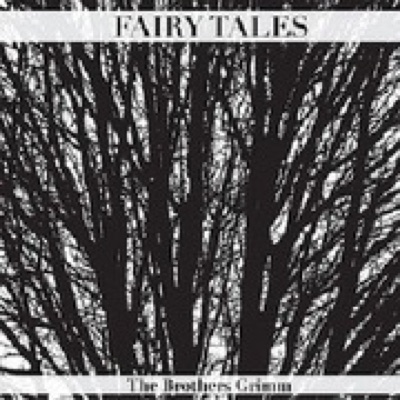
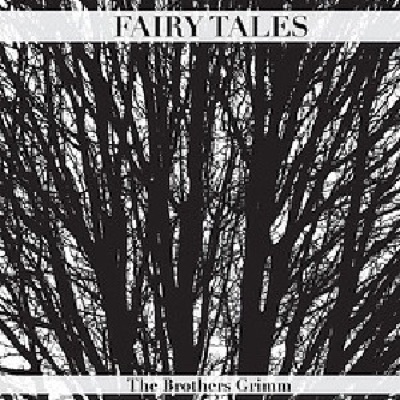
fix(demo): source covers from LibriVox's own artwork, record provenance
The bundled demo covers came from archive.org's `services/img/<id>`
endpoint, which returns a 180x180 derived thumbnail that the script then
upscaled to 400px — every cover shipped visibly soft.

Fetch the cover file LibriVox actually uploaded to the item instead
(e.g. `Moby_Dick_1002.jpg`), so 400px is a real downscale. All 18
catalogue items turn out to have one; `services/img` stays as a fallback.

Also settles the redistribution question that blocked going public.
Checked all 18 against the archive.org metadata API: every item is in the
`librivoxaudio` collection, uploaded by `info@librivox.org`, and 16 carry
an explicit public-domain `licenseurl` (CC PD / CC0 1.0 / PD Mark 1.0).
The two without one (`sonnet_23`, `declaration_of_independence`) predate
the metadata field rather than assert anything narrower. LibriVox's own
policy is explicit that cover art is included:

  "In addition, book summaries, CD cover art, and any other material that
   goes into our catalog with the audio recordings are in the public
   domain." — https://librivox.org/pages/public-domain/

The script now writes assets/demo/covers/CREDITS.md, a per-file table of
item, source filename and asserted rights, so the claim stays checkable
rather than remembered.

Changed region(s): [[0.0, 0.0, 1.0, 1.0]]

diff --git a/assets/demo/covers/CREDITS.md b/assets/demo/covers/CREDITS.md
@@ -1,0 +1,42 @@
+# Cover art — sources and rights
+
+Every image in this directory was published by LibriVox
+(uploader `info@librivox.org`) as part of the archive.org item for that
+recording, and is redistributed here under LibriVox's public-domain policy:
+
+> LibriVox records only texts that are in the public domain (in the USA), and
+> all our recordings are public domain. **In addition, book summaries, CD cover
+> art, and any other material that goes into our catalog with the audio
+> recordings are in the public domain.**
+>
+> — <https://librivox.org/pages/public-domain/>
+
+Images are downscaled to 400px and re-encoded; they are otherwise unmodified.
+They are bundled rather than hotlinked because archive.org's image service
+sends no `access-control-allow-origin` header, so CanvasKit's fetch of a
+hotlinked cover is blocked by CORS in the web demo.
+
+Regenerate this file with `scripts/fetch_demo_covers.sh`.
+
+| Cover | Item | Source file | archive.org rights |
+| --- | --- | --- | --- |
+| `gettysburg_address_librivox.jpg` | [The Gettysburg Address](https://archive.org/details/gettysburg_address_librivox) — Abraham Lincoln | `Gettysburg_Address_1108.jpg` | [CC Public Domain](http://creativecommons.org/licenses/publicdomain/) |
+| `sonnet_23_librivox.jpg` | [Sonnet 23 by William Shakespeare](https://archive.org/details/sonnet_23_librivox) — William Shakespeare | `Shakespeare_Sonnet_23_1108.jpg` | none asserted — LibriVox policy applies |
+| `pride_and_prejudice_librivox.jpg` | [Pride and Prejudice](https://archive.org/details/pride_and_prejudice_librivox) — Jane Austen | `Pride_Prejudice_1104.jpg` | [CC Public Domain](http://creativecommons.org/licenses/publicdomain/) |
+| `adventures_sherlockholmes_1007_librivox.jpg` | [The Adventures of Sherlock Holmes](https://archive.org/details/adventures_sherlockholmes_1007_librivox) — Sir Arthur Conan Doyle | `Adventures_of_Sherlock_Holmes_1008.jpg` | [CC Public Domain](http://creativecommons.org/licenses/publicdomain/) |
+| `frankenstein_cs_librivox.jpg` | [Frankenstein; or, The Modern Prometheus (1818)](https://archive.org/details/frankenstein_cs_librivox) — Mary Wollstonecraft Shelley | `Frankenstein_1111.jpg` | [CC0 1.0](http://creativecommons.org/publicdomain/zero/1.0/) |
+| `war_of_the_worlds_librivox.jpg` | [The War of the Worlds](https://archive.org/details/war_of_the_worlds_librivox) — H. G. Wells | `war_worlds_group_1109.jpg` | [CC Public Domain](http://creativecommons.org/licenses/publicdomain/) |
+| `dracula_librivox.jpg` | [Dracula](https://archive.org/details/dracula_librivox) — Bram Stoker | `Dracula_1104.jpg` | [CC Public Domain](http://creativecommons.org/licenses/publicdomain/) |
+| `call_of_the_wild.jpg` | [The Call of the Wild](https://archive.org/details/call_of_the_wild) — Jack London | `Call_of_the_Wild.jpg` | [CC Public Domain](http://creativecommons.org/licenses/publicdomain/) |
+| `moby_dick_librivox.jpg` | [Moby Dick, or the Whale](https://archive.org/details/moby_dick_librivox) — Herman Melville | `Moby_Dick_1002.jpg` | [PD Mark 1.0](http://creativecommons.org/publicdomain/mark/1.0/) |
+| `peter_pan_0707_librivox.jpg` | [Peter Pan](https://archive.org/details/peter_pan_0707_librivox) — J. M. Barrie | `Peter_Pan_1109.jpg` | [CC Public Domain](http://creativecommons.org/licenses/publicdomain/) |
+| `christmascarol_librivox.jpg` | [A Christmas Carol](https://archive.org/details/christmascarol_librivox) — Charles Dickens | `Christmas_Carol_1002.jpg` | [CC Public Domain](http://creativecommons.org/licenses/publicdomain/) |
+| `wizard_of_oz.jpg` | [The Wonderful Wizard of Oz](https://archive.org/details/wizard_of_oz) — L. Frank Baum | `Wonderful_Wizard_Oz_1107.jpg` | [CC Public Domain](http://creativecommons.org/licenses/publicdomain/) |
+| `grimms_english_librivox.jpg` | [Grimms' Fairy Tales](https://archive.org/details/grimms_english_librivox) — Jacob and Wilhelm Grimm | `grimm.jpg` | [CC Public Domain](http://creativecommons.org/licenses/publicdomain/) |
+| `frederick-douglass_jf_librivox.jpg` | [Narrative of the Life of Frederick Douglass](https://archive.org/details/frederick-douglass_jf_librivox) — Frederick Douglass | `Narrative_of_the_Life_of_Frederick_Douglass_1003.jpg` | [CC Public Domain](http://creativecommons.org/licenses/publicdomain/) |
+| `declaration_of_independence_librivox.jpg` | [The Declaration of Independence of the United States of America](https://archive.org/details/declaration_of_independence_librivox) — United States of America | `declaration_independence_1101.jpg` | none asserted — LibriVox policy applies |
+| `jekyll_and_hyde_klh_0904_librivox.jpg` | [The Strange Case of Dr. Jekyll and Mr. Hyde](https://archive.org/details/jekyll_and_hyde_klh_0904_librivox) — Robert Louis Stevenson | `strange_case_of_dr_jekyll_and_mr_hyde_2_1101.jpg` | [CC Public Domain](http://creativecommons.org/licenses/publicdomain/) |
+| `little_women_0711_librivox.jpg` | [Little Women](https://archive.org/details/little_women_0711_librivox) — Louisa May Alcott | `little_women_1011.jpg` | [CC Public Domain](http://creativecommons.org/licenses/publicdomain/) |
+| `being_earnest_librivox.jpg` | [The Importance of Being Earnest](https://archive.org/details/being_earnest_librivox) — Oscar Wilde | `Importance_Being_Earnest_1105.jpg` | [CC Public Domain](http://creativecommons.org/licenses/publicdomain/) |
+
+18 covers. Verified against the archive.org metadata API.
